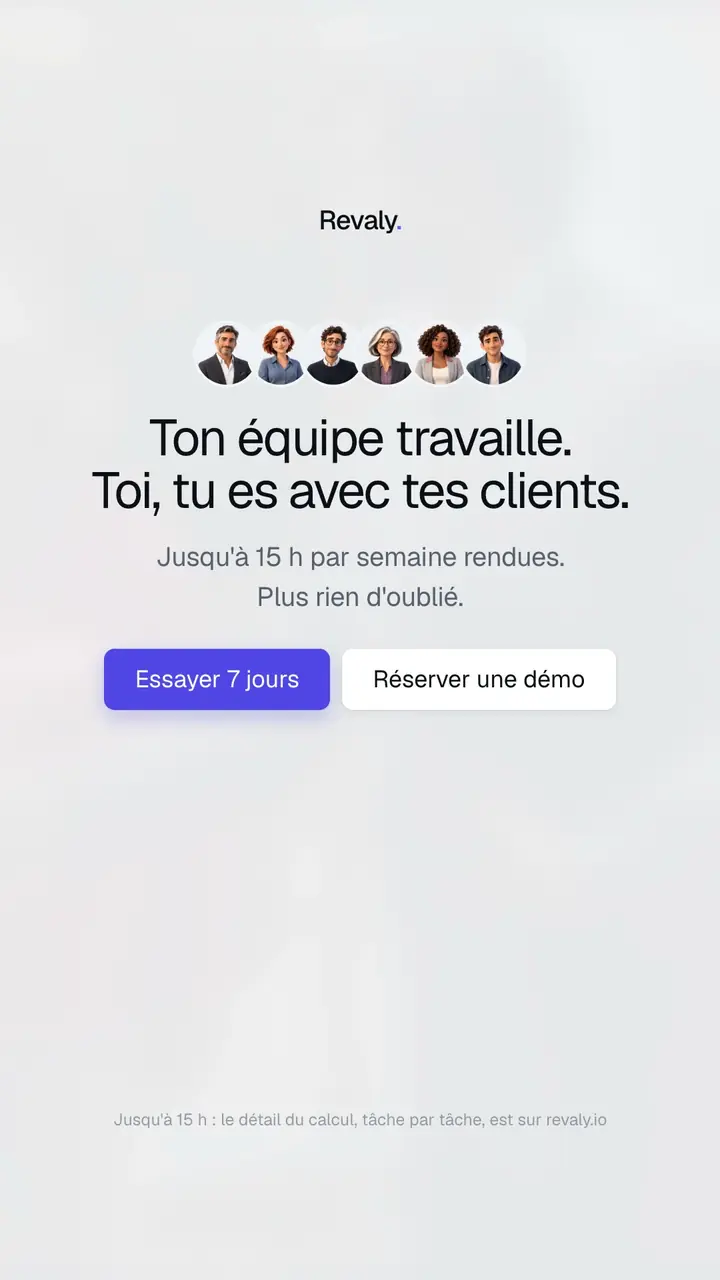
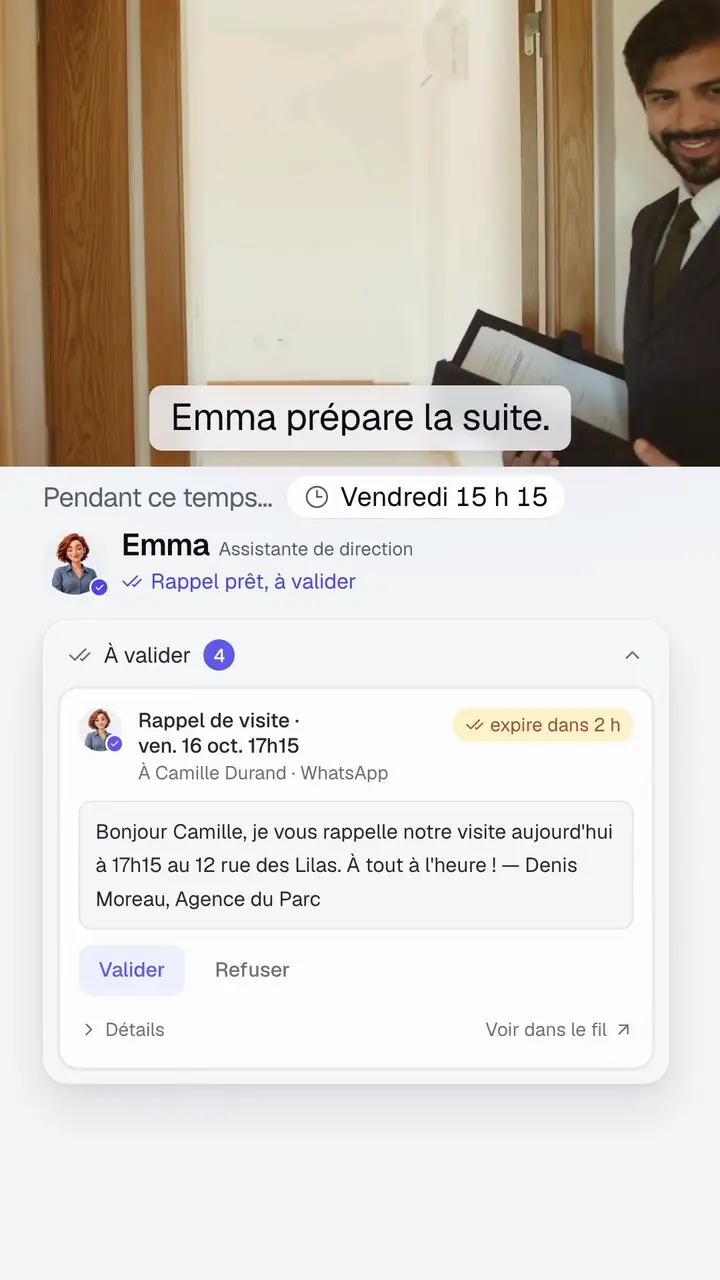
fix(accueil): image fixe du film = première image de la boucle (plus d'image de fin avant la lecture)
L'image fixe affichée avant la vidéo venait du poster du film (image de fin,
logo). Elle est maintenant tirée de la première image de la boucle (verticale
et 16:9), refaite à chaque construction (ffmpeg + Pillow) : le passage à la
vidéo ne se voit plus, et les fichiers du film restent remplaçables.

diff --git a/build.py b/build.py
@@ -587,13 +587,20 @@ for static in ["og.jpg", "logo.png"]:
     if src.exists():
         shutil.copy(src, ROOT / "dist" / static)
 (ROOT / "dist" / "film").mkdir(exist_ok=True)
-try:  # Pillow présent en local : les WebP suivent toujours le dernier poster rendu ; sinon, celles du dépôt
+# Image fixe du haut = première image de la boucle (le passage à la vidéo ne se voit pas). Refaite à chaque
+# construction quand ffmpeg et Pillow sont là (les fichiers du film peuvent être remplacés, mêmes noms) ;
+# sinon, les WebP du dépôt servent telles quelles.
+try:
+    import subprocess, tempfile
     from PIL import Image
-    for _src, _dst, _taille in [("poster.jpg", "poster@1280.webp", (1280, 720)), ("poster-vertical.jpg", "poster-vertical@720.webp", (720, 1280))]:
-        if (ROOT / "assets" / "film" / _src).exists():
-            Image.open(ROOT / "assets" / "film" / _src).convert("RGB").resize(_taille, Image.LANCZOS).save(
-                ROOT / "assets" / "film" / _dst, "WEBP", quality=74, method=6)
-except ImportError:
+    if shutil.which("ffmpeg"):
+        for _src, _dst, _taille in [("boucle.mp4", "poster@1280.webp", (1280, 720)), ("boucle-vertical.mp4", "poster-vertical@720.webp", (720, 1280))]:
+            if (ROOT / "assets" / "film" / _src).exists():
+                with tempfile.TemporaryDirectory() as _d:
+                    _png = pathlib.Path(_d) / "f.png"
+                    subprocess.run(["ffmpeg", "-v", "error", "-y", "-i", str(ROOT / "assets" / "film" / _src), "-frames:v", "1", str(_png)], check=True)
+                    Image.open(_png).convert("RGB").resize(_taille, Image.LANCZOS).save(ROOT / "assets" / "film" / _dst, "WEBP", quality=74, method=6)
+except (ImportError, subprocess.CalledProcessError):
     pass
 for f in (ROOT / "assets" / "film").glob("*"):
     if f.is_file() and f.suffix in {".mp4", ".webm", ".jpg", ".webp", ".vtt"}:
